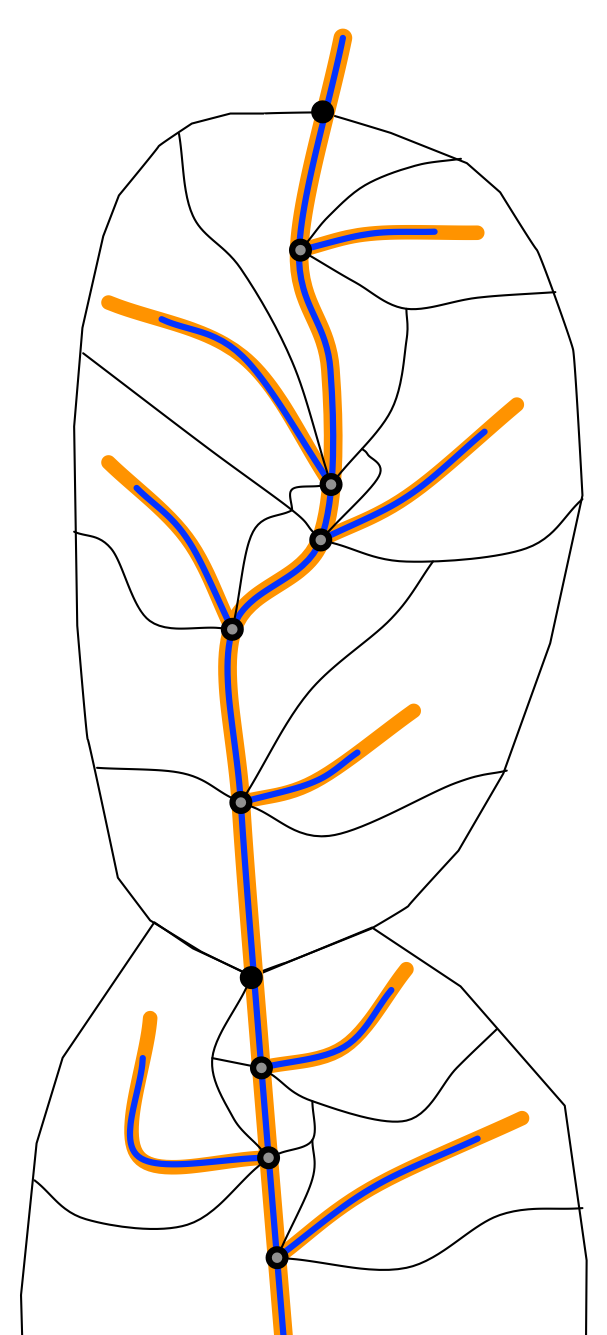
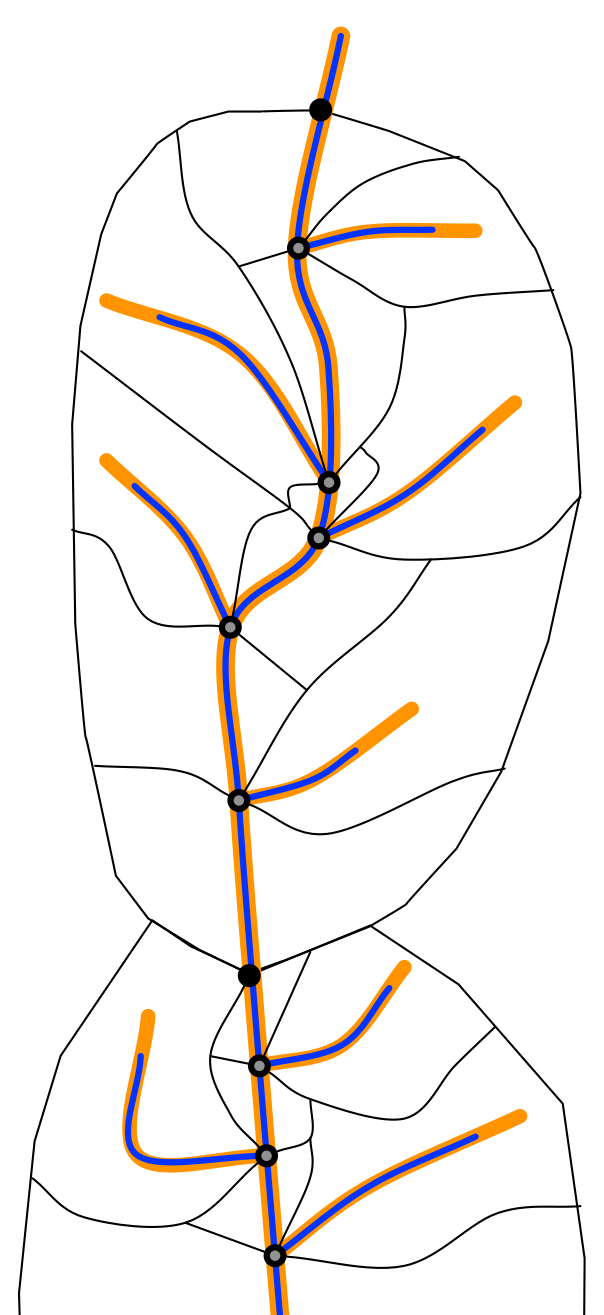
updates per further review from Irina.

diff --git a/HY_Features_primer/HY_Features_Primer.md b/HY_Features_primer/HY_Features_Primer.md
@@ -269,7 +269,7 @@ best illustrated as a sequence of steps.
 
 1. Given a **waterbody** feature, lets say it's a line.
 2. Choose two locations on that line, you have two **hydrologic locations**.
-3. Delineate the **divide** around the **area** that drains to the blue line.
+3. Delineate the **divide** around the **area** that contributes to the blue line between the two hydro locations.
 
 ***
 
@@ -340,8 +340,8 @@ left: 70%
 
 **Waterbody -- Hydro Location and Catchment -- Hydro Nexus**
 
-Imagine that there are alternate representations of the 
-catchment between Hydro Nexus *34* and *56*. These may be:
+Imagine that there are alternate data or geometric representations 
+of the catchment between Hydro Nexus *34* and *56*. These may be:
 
 - for mapping at a different spatial scale
 - from a different data processing method
@@ -349,10 +349,10 @@ catchment between Hydro Nexus *34* and *56*. These may be:
 - representative of a different process such as surface 
 water contributing or groundwater contributing catchment
 
-As long as these various representations are described as
-the same kind of catchment realization and identified with
-the same catchment identifier, they can be associated and
-related data and reports can also be unambiguously linked.
+As long as various data products represent the same 
+hydrology-specific catchment realization and identify 
+the same realized catchment, they can be associated directly 
+or related data and reports can also be unambiguously linked.
 
 ***
 
@@ -366,14 +366,16 @@ left: 70%
 **Networks of Waterbodies or Channels and Catchment Interactions**
 
 A catchment can be realized as a network of waterbodies, 
-shown here as a simple blue line network meant to represent
+shown here as a simple network of blue lines meant to represent
 waterbodies. 
 
 A catchment can also be realized as the network of its channels, 
-shown here as orange lines that contain the waterbodies.
+shown here as a network of orange lines that may contain the waterbodies.
 
-Also illustrated here, two catchments interact at a hydrologic 
-location referenced to the waterbody network.
+Also illustrated here, two catchments and their associated waterbodies/channels
+interact at a hydrologic location that is referenced to the waterbody/channel 
+network that realizes the whole catchment.
+
 
 ***
 
@@ -386,14 +388,18 @@ left: 70%
 
 **Networks of Waterbodies or Channels and Catchment Interactions**
 
-If we create hydro nexuses and realize them with hydrolocations and 
-also create catchment boundary realizations for each of the waterbodies
-in the network, it becomes clear that a waterbody or catchment network
-can be thought of as a network of catchment realizations.
+If we create hydro locations at junctions in the waterbody network 
+and associate them with hydro nexuses and catchments (realized 
+as boundaries and flowpaths in this figure), it becomes clear 
+that a waterbody or catchment (boundary) network is also be a 
+network of many individual catchment realizations.
 
-Systems of channels, waterbodies, hydro locations and catchments 
-can can be defined at many scales and tied together through shared 
-identifiers for hydro nexuses and catchments.
+If we connect water bodies and/or channels at hydro locations at 
+their inlets and outlets, we get a network of catchments interacting at 
+their hydro nexuses. By using consistent identifiers for the hydro 
+nexuses and the associated catchments, datasets representing 
+waterbodies/channels that are built at different scales can be 
+tied together.
 
 The ability to both tie datasets together accross scales and to 
 support linking various data sets that represent the same real-world 
